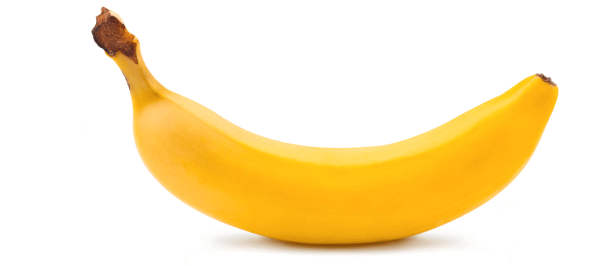
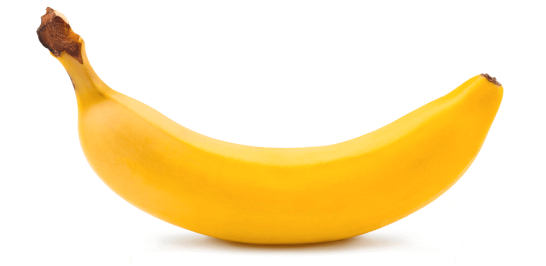
-

diff --git a/src/partials/subscribe.html b/src/partials/subscribe.html
@@ -1,13 +1,14 @@
 <section class="container subscribe">
   <picture>
     <source
-      media="(max-width: 767px)"
+      media="(min-width: 1280px)"
       srcset="
-        ./images/subscribe/banan@1x-mob.png 1x,
-        ./images/subscribe/banan@2x-mob.png 2x
+        ./images/subscribe/banan@1x-desk.png 1x,
+        ./images/subscribe/banan@2x-desk.png 2x
       "
       type="image/png"
     />
+
     <source
       media="(min-width: 768px)"
       srcset="
@@ -17,10 +18,10 @@
       type="image/png"
     />
     <source
-      media="(min-width: 1280px)"
+      media="(max-width: 767px)"
       srcset="
-        ./images/subscribe/banan@1x-desk.png 1x,
-        ./images/subscribe/banan@2x-desk.png 2x
+        ./images/subscribe/banan@1x-mob.png 1x,
+        ./images/subscribe/banan@2x-mob.png 2x
       "
       type="image/png"
     />

diff --git a/src/sass/layout/_subscribe.scss b/src/sass/layout/_subscribe.scss
@@ -1,23 +1,38 @@
 .subscribe {
+  position: relative;
   display: block;
   padding-bottom: 60px;
+  padding-top: 52px;
   @media screen and (min-width: $tablet) {
+    padding-top: 82px;
     padding-bottom: 100px;
   }
   @media screen and (min-width: $desktop) {
+    padding-top: 0;
     display: flex;
     flex-direction: row-reverse;
   }
 }
 .subscribe__img {
-  margin: -43px auto 17px auto;
+  position: absolute;
+
+  @media screen and (max-width: 767px) {
+    top: -52px;
+    right: 0;
+    left: 0;
+    margin: 0 auto;
+  }
   @media screen and (min-width: $tablet) {
-    margin: 0 0 20px auto;
+    margin: 0;
     width: 281px;
+    right: 0;
+    top: -78px;
+    position: absolute;
   }
   @media screen and (min-width: $desktop) {
     margin: -46px 0 0 0;
     width: 608px;
+    position: static;
   }
 }
 .subscribe__title {
